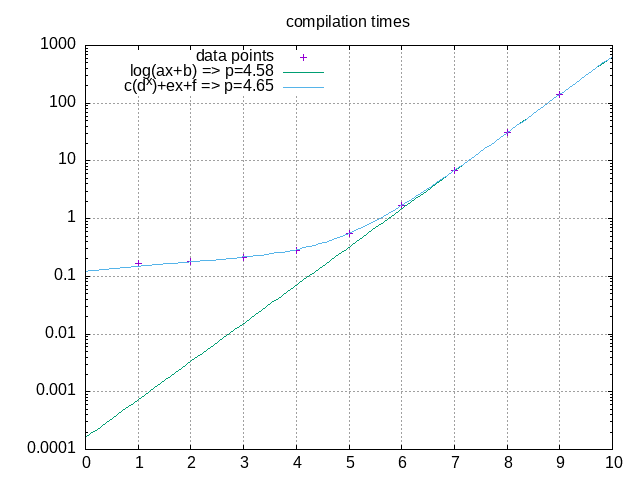
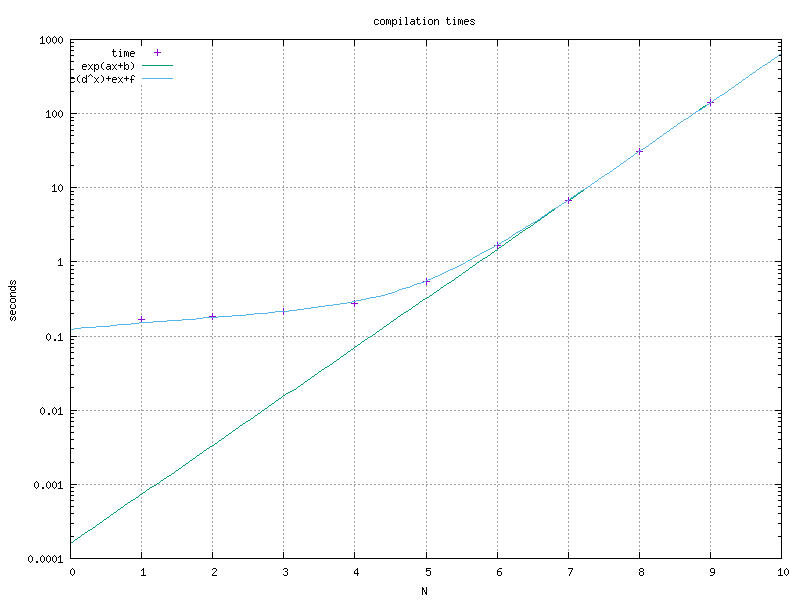
fixed plot and order calculation

diff --git a/README.md b/README.md
@@ -96,11 +96,40 @@ make: *** [<builtin>: toh_moves_error] Error 1
 $
 ```
 
+```
+$ make height=8 move=137 toh_ascii
+g++ -std=c++17 -Wall -Wextra -Wpedantic -Werror -O3 -DTOWER_HEIGHT=8 -DMOVE_NUM=137 -ftemplate-depth=100000    toh_ascii.cpp   -o toh_ascii
+$ ./toh_ascii
+        A                B                C        
+        |                |                |        
+        |                |                |        
+        |                |                |        
+        |                |                |        
+        |                |                |        
+        |           [    |    ]         [ | ]      
+       [|]         [     |     ]       [  |  ]     
+    [   |   ]     [      |      ] [       |       ]
+___________________________________________________
+move disc 1 from 'C' to 'B'
+        A                B                C        
+        |                |                |        
+        |                |                |        
+        |                |                |        
+        |                |                |        
+        |              [ | ]              |        
+        |           [    |    ]           |        
+       [|]         [     |     ]       [  |  ]     
+    [   |   ]     [      |      ] [       |       ]
+___________________________________________________
+
+$
+```
+
 ### Exponential nature
 
 The [compilation times](./times.txt) were measured and plotted on log-scale. The functions fitted were: `ax+b` on the log values of the data, and `c(d^x)+ex+f`. Both method yields around p=4.5 factor between tower height increments.
 
 ![plot](./plot.png)
 
-Number of moves generated this way is 2^N-1, which is already exponential, each move is (6N+3)\*N characters sized drawn out. This accounts for the output size scaling O(4^N). The additional p=4.? part may come from helper templates that needs calculating string parts recursively or scaling poorly due to the declarative nature of the template metaprogramming.
+Number of moves generated this way is 2^N-1, which is already exponential, each move is (6N+3)\*N characters sized drawn out. This accounts for the output size scaling O(2^N \* N^2). The additional p=4.? part may come from helper templates that needs calculating string parts recursively or scaling poorly due to the declarative nature of the template metaprogramming. It would be more beneficial to fit a function that was theoretized from counting templated types generated by the compiler.
 
